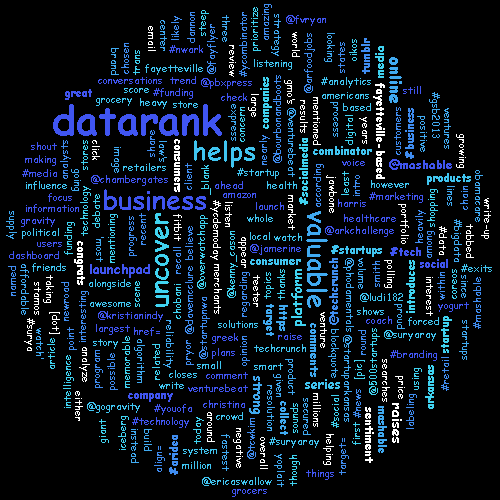
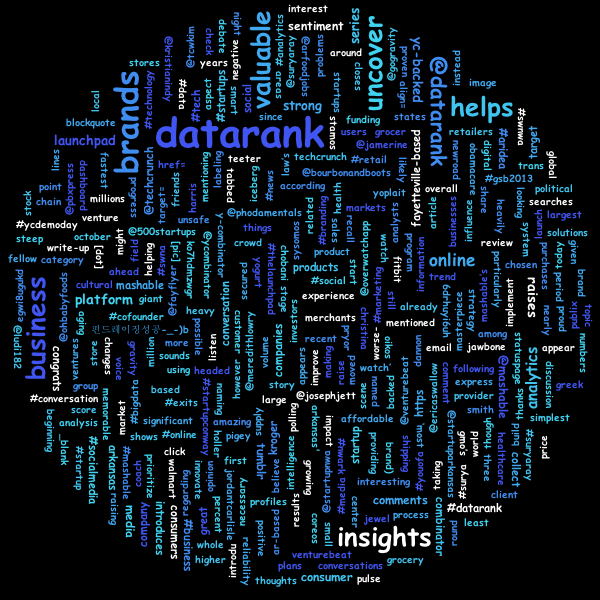
more cleanup

diff --git a/src/test/java/TestWordCloud.java b/src/test/java/TestWordCloud.java
@@ -132,14 +132,14 @@ public class TestWordCloud {
     @Test
     public void datarankCircle() throws IOException {
         final FrequencyAnalizer frequencyAnalizer = new FrequencyAnalizer();
-        frequencyAnalizer.setWordFrequencesToReturn(500);
+        frequencyAnalizer.setWordFrequencesToReturn(750);
         frequencyAnalizer.setMinWordLength(4);
         frequencyAnalizer.setStopWords(loadStopWords());
 
         final List<WordFrequency> wordFrequencies = frequencyAnalizer.load(getInputStream("text/datarank.txt"));
-        final WordCloud wordCloud = new WordCloud(500, 500, CollisionType.PIXEL_PERFECT);
+        final WordCloud wordCloud = new WordCloud(600, 600, CollisionType.PIXEL_PERFECT);
         wordCloud.setPadding(2);
-        wordCloud.setBackground(new CircleBackground(250));
+        wordCloud.setBackground(new CircleBackground(300));
         wordCloud.setColorPalette(new ColorPalette(new Color(0x4055F1), new Color(0x408DF1), new Color(0x40AAF1), new Color(0x40C5F1), new Color(0x40D3F1), new Color(0xFFFFFF)));
         wordCloud.setFontScalar(new LinearFontScalar(10, 40));
         final long startTime = System.currentTimeMillis();

diff --git a/src/main/java/wordcloud/image/AngleGenerator.java b/src/main/java/wordcloud/image/AngleGenerator.java
@@ -1,6 +1,5 @@
 package wordcloud.image;
 
-import java.util.Arrays;
 import java.util.Random;
 
 /**
@@ -36,12 +35,10 @@ public class AngleGenerator {
 
     private double[] calculateThetas(final double to, final double from) {
         final double stepSize = (to - from) / (steps - 1);
-        System.out.println(stepSize);
         final double[] thetas = new double[steps];
         for(int i = 0; i < steps; i++) {
             thetas[i] = degreesToRadians(from + (i * stepSize));
         }
-        System.out.println(Arrays.toString(thetas));
         return thetas;
     }
 
